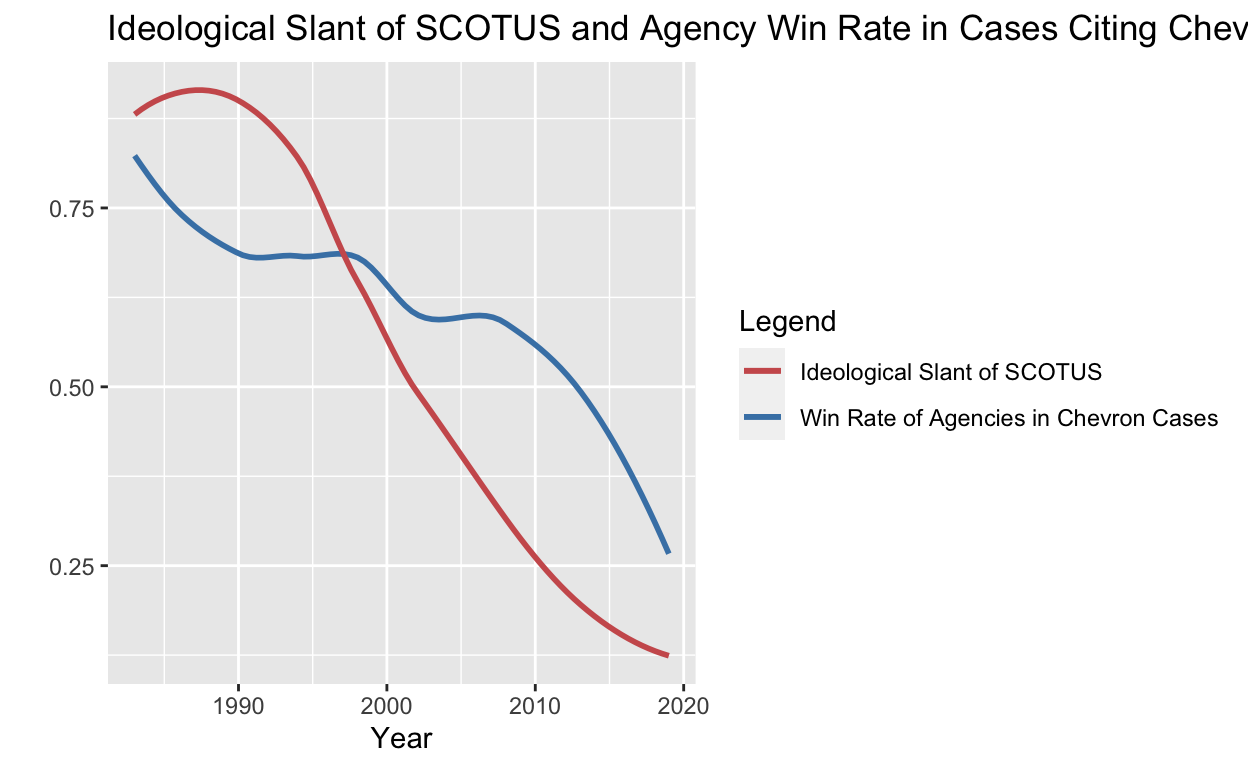
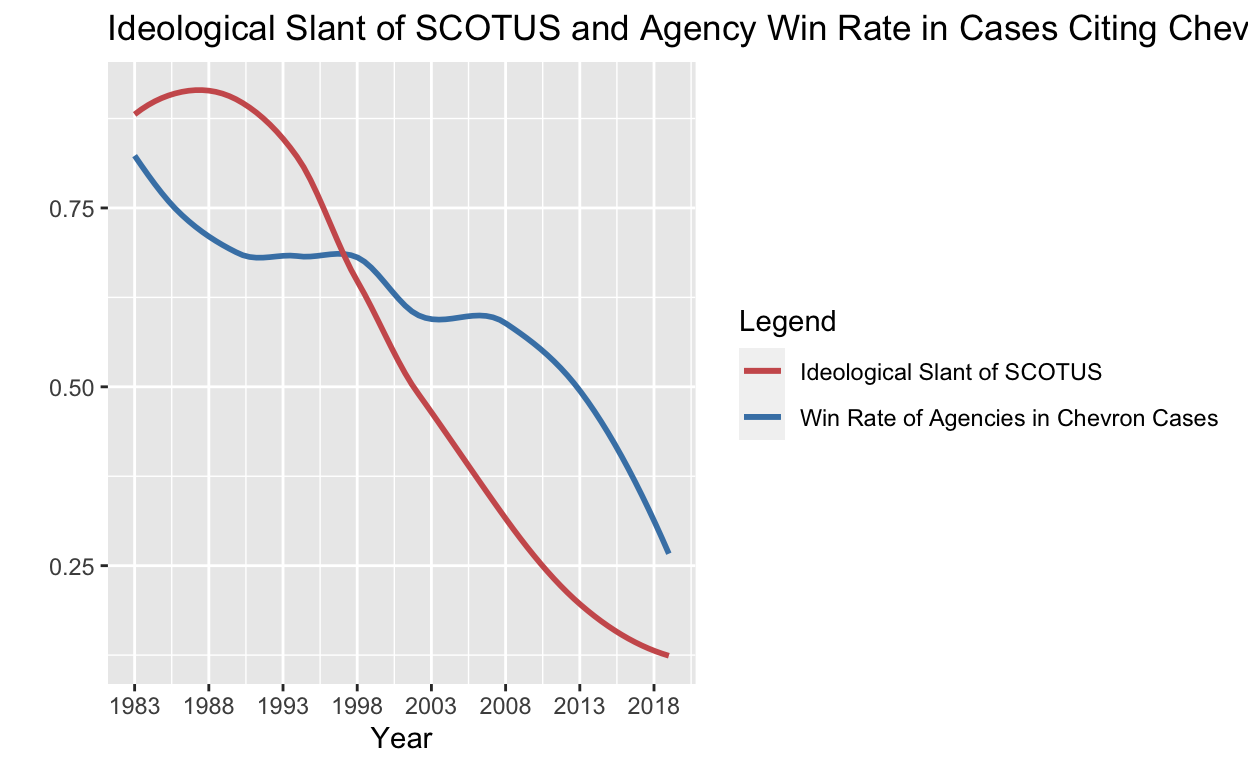
done with milestone

diff --git a/index.html b/index.html
@@ -115,7 +115,7 @@ code span.wa { color: #5e5e5e; font-style: italic; } /* Warning */
   <!--/radix_placeholder_rmarkdown_metadata-->
   
   <script type="text/json" id="radix-resource-manifest">
-  {"type":"character","attributes":{},"value":["data/court.csv","data/ProjectDeferenceData.csv","index_files/anchor-4.2.2/anchor.min.js","index_files/bowser-1.9.3/bowser.min.js","index_files/distill-2.2.21/template.v2.js","index_files/figure-html5/unnamed-chunk-5-1.png","index_files/figure-html5/unnamed-chunk-6-1.png","index_files/header-attrs-2.17/header-attrs.js","index_files/header-attrs-2.24/header-attrs.js","index_files/jquery-3.6.0/jquery-3.6.0.js","index_files/jquery-3.6.0/jquery-3.6.0.min.js","index_files/jquery-3.6.0/jquery-3.6.0.min.map","index_files/popper-2.6.0/popper.min.js","index_files/tippy-6.2.7/tippy-bundle.umd.min.js","index_files/tippy-6.2.7/tippy-light-border.css","index_files/tippy-6.2.7/tippy.css","index_files/tippy-6.2.7/tippy.umd.min.js","index_files/webcomponents-2.0.0/webcomponents.js"]}
+  {"type":"character","attributes":{},"value":["data/court.csv","data/ProjectDeferenceData.csv","index_files/anchor-4.2.2/anchor.min.js","index_files/bowser-1.9.3/bowser.min.js","index_files/distill-2.2.21/template.v2.js","index_files/figure-html5/unnamed-chunk-5-1.png","index_files/figure-html5/unnamed-chunk-6-1.png","index_files/figure-html5/unnamed-chunk-8-1.png","index_files/header-attrs-2.17/header-attrs.js","index_files/header-attrs-2.24/header-attrs.js","index_files/jquery-3.6.0/jquery-3.6.0.js","index_files/jquery-3.6.0/jquery-3.6.0.min.js","index_files/jquery-3.6.0/jquery-3.6.0.min.map","index_files/popper-2.6.0/popper.min.js","index_files/tippy-6.2.7/tippy-bundle.umd.min.js","index_files/tippy-6.2.7/tippy-light-border.css","index_files/tippy-6.2.7/tippy.css","index_files/tippy-6.2.7/tippy.umd.min.js","index_files/webcomponents-2.0.0/webcomponents.js"]}
   </script>
   <!--radix_placeholder_navigation_in_header-->
   <!--/radix_placeholder_navigation_in_header-->
@@ -1517,14 +1517,14 @@ code span.wa { color: #5e5e5e; font-style: italic; } /* Warning */
 </div>
 
 <div class="d-article">
-<h2 id="project-thoughts">Project thoughts</h2>
+<h2 id="milestone-1-project-thoughts">MILESTONE 1: Project thoughts</h2>
 <p>I am interested in doing my final project on an issue related to the federal court system. For example, I’d be interested in exploring how Chevron Deference has been declining as the justification in recent court decisions.</p>
-<h2 id="project-proposal">Project Proposal</h2>
+<h2 id="milestone-2-project-proposal">MILESTONE 2: Project Proposal</h2>
 <p>Does the Supreme Court defer more to certain executive agencies over others when questions of statutory interpretations arise? In this report, I will attempt to determine whether the Supreme Court favors certain executive agencies when applying the doctrine of Executive Deference. I hypothesize that the supreme court applies deference relatively equally among executive agencies, as the doctrine of deference does not discriminate between the roles of distinct agencies. Thus, when examining data about whether or not the Supreme Court sides with an executive agency in a decision, I expect each agency to have a similar win rate in cases revolving around deference. The explanatory variable of interest my project will focus on is the agency bringing a case invoking the deference doctrine before the Supreme Court. The outcome variable would be the win rates of those different agencies when those cases are brought before the court. Thus, the database I will be utilizing is a list of Supreme Court cases from 1984 to 2019 where an agency attempts to interpret a law (statutory interpretation). If the the difference in win rates between different agencies is not statistically significant, my hypothesis would have been found to have statistical support. If there are statistically significant differences in win rates of agencies, there would appear to be favoritism on the Supreme Court, and my hypothesis would be disproved.</p>
 <p>The variable for agency is coded 0-52, with each representing a different executive agency bringing the case to the Court. The variable called favors_agency can be considered in determining win rate. It is coded as a 0 if the decision favors agency, 1 if it does not, and 2 if it was mixed. To minimize confounding factors, I will only consider a 0 as a win for an agency.</p>
 <p>In addition, to avoid confounding variables regarding other aspects of cases, I will only investigate cases where the court determined Chevron Deference (one of the deference doctrines) should apply. Thus, the only cases I will evaluate are ones where Chevron Step 0 (does the Chevron framework apply) is coded as a 1 to indicate yes.</p>
 <p>Link to dataset: <a href="https://dataverse.harvard.edu/dataset.xhtml?persistentId=doi:10.7910/DVN/ZNCKL5" class="uri">https://dataverse.harvard.edu/dataset.xhtml?persistentId=doi:10.7910/DVN/ZNCKL5</a></p>
-<h2 id="data-visulatization">Data Visulatization</h2>
+<h2 id="milestone-3-data-visulatization">MILESTONE 3: Data Visulatization</h2>
 <p>I am going to make a scatter plot that shoes the win rate of different agencies in cases where Chevron is cited compared to the ideological slant of the court in order to determine which party has a stronger correlation with agency wins.</p>
 <div class="layout-chunk" data-layout="l-body">
 <div class="sourceCode">
@@ -1638,6 +1638,7 @@ Now let’s create the chart:
 <span>  <span class='fu'><a href='https://ggplot2.tidyverse.org/reference/geom_smooth.html'>geom_smooth</a></span><span class='op'>(</span><span class='fu'><a href='https://ggplot2.tidyverse.org/reference/aes.html'>aes</a></span><span class='op'>(</span>y <span class='op'>=</span> <span class='va'>prop_agency_win</span>, color <span class='op'>=</span> <span class='st'>"Win Rate of Agencies in Chevron Cases"</span><span class='op'>)</span>, se <span class='op'>=</span> <span class='cn'>FALSE</span><span class='op'>)</span> <span class='op'>+</span></span>
 <span>  <span class='fu'><a href='https://ggplot2.tidyverse.org/reference/geom_smooth.html'>geom_smooth</a></span><span class='op'>(</span><span class='fu'><a href='https://ggplot2.tidyverse.org/reference/aes.html'>aes</a></span><span class='op'>(</span>y <span class='op'>=</span> <span class='va'>`med`</span>, color <span class='op'>=</span> <span class='st'>"Ideological Slant of SCOTUS"</span><span class='op'>)</span>, se <span class='op'>=</span> <span class='cn'>FALSE</span><span class='op'>)</span> <span class='op'>+</span></span>
 <span>  <span class='fu'><a href='https://ggplot2.tidyverse.org/reference/scale_manual.html'>scale_colour_manual</a></span><span class='op'>(</span>name <span class='op'>=</span><span class='st'>"Legend"</span>, values <span class='op'>=</span> <span class='fu'><a href='https://rdrr.io/r/base/c.html'>c</a></span><span class='op'>(</span><span class='st'>"Win Rate of Agencies in Chevron Cases"</span> <span class='op'>=</span> <span class='st'>"steelblue"</span>, <span class='st'>"Ideological Slant of SCOTUS"</span> <span class='op'>=</span> <span class='st'>"indianred"</span><span class='op'>)</span><span class='op'>)</span> <span class='op'>+</span></span>
+<span>  <span class='fu'><a href='https://ggplot2.tidyverse.org/reference/scale_continuous.html'>scale_x_continuous</a></span><span class='op'>(</span>breaks<span class='op'>=</span><span class='fu'><a href='https://rdrr.io/r/base/seq.html'>seq</a></span><span class='op'>(</span><span class='fl'>1983</span>,<span class='fl'>2019</span>,by<span class='op'>=</span><span class='fl'>5</span><span class='op'>)</span><span class='op'>)</span> <span class='op'>+</span></span>
 <span><span class='fu'><a href='https://ggplot2.tidyverse.org/reference/labs.html'>labs</a></span><span class='op'>(</span></span>
 <span>  title <span class='op'>=</span> <span class='st'>"Ideological Slant of SCOTUS and Agency Win Rate in Cases Citing Chevron Over Time"</span>,</span>
 <span>  x <span class='op'>=</span> <span class='st'>"Year"</span>,</span>
@@ -1647,7 +1648,277 @@ Now let’s create the chart:
 <p><img src="index_files/figure-html5/unnamed-chunk-6-1.png" width="624" /></p>
 </div>
 <p>Higher numbers on the y-axis indicate a more conservative supreme court and a higher agency win-rate in Chevron cases.</p>
-<div class="sourceCode" id="cb4"><pre class="sourceCode r distill-force-highlighting-css"><code class="sourceCode r"></code></pre></div>
+<h2 id="milestone-4-analysis">MILESTONE 4: Analysis</h2>
+<p>Let’s create a table that demonstrates the relationship between the median slant of the Supreme Court and the percentage of Chevron cases an agency wins.</p>
+<div class="layout-chunk" data-layout="l-body">
+<div class="sourceCode">
+<pre class="sourceCode r"><code class="sourceCode r"><span><span class='va'>chevron_data</span> <span class='op'>&lt;-</span> <span class='va'>deference_data</span> <span class='op'>|&gt;</span></span>
+<span>  <span class='fu'><a href='https://dplyr.tidyverse.org/reference/group_by.html'>group_by</a></span><span class='op'>(</span><span class='va'>term</span><span class='op'>)</span> <span class='op'>|&gt;</span></span>
+<span>  <span class='fu'><a href='https://dplyr.tidyverse.org/reference/summarise.html'>summarize</a></span><span class='op'>(</span></span>
+<span>    median_slant <span class='op'>=</span> <span class='fu'><a href='https://rdrr.io/r/base/mean.html'>mean</a></span><span class='op'>(</span><span class='va'>med</span><span class='op'>)</span>,</span>
+<span>    agency_prop_win <span class='op'>=</span> <span class='fu'><a href='https://rdrr.io/r/base/mean.html'>mean</a></span><span class='op'>(</span><span class='va'>case_winner</span> <span class='op'>==</span> <span class='st'>"gov_agency"</span><span class='op'>)</span></span>
+<span>  <span class='op'>)</span></span>
+<span></span>
+<span><span class='va'>chevron_data</span> <span class='op'>&lt;-</span> <span class='va'>chevron_data</span> <span class='op'>|&gt;</span></span>
+<span>  <span class='fu'><a href='https://tidyr.tidyverse.org/reference/drop_na.html'>drop_na</a></span><span class='op'>(</span><span class='op'>)</span></span>
+<span></span>
+<span><span class='va'>chevron_data</span> <span class='op'>|&gt;</span></span>
+<span>  <span class='fu'>knitr</span><span class='fu'>::</span><span class='fu'><a href='https://rdrr.io/pkg/knitr/man/kable.html'>kable</a></span><span class='op'>(</span>col.names <span class='op'>=</span> <span class='fu'><a href='https://rdrr.io/r/base/c.html'>c</a></span><span class='op'>(</span><span class='st'>"Term"</span>, <span class='st'>"Ideological Slant of Median Justice"</span>, <span class='st'>"Proportion of Agency Wins in Chevron Cases"</span><span class='op'>)</span><span class='op'>)</span></span></code></pre>
+</div>
+<table>
+<colgroup>
+<col style="width: 5%" />
+<col style="width: 42%" />
+<col style="width: 51%" />
+</colgroup>
+<thead>
+<tr class="header">
+<th style="text-align: right;">Term</th>
+<th style="text-align: right;">Ideological Slant of Median Justice</th>
+<th style="text-align: right;">Proportion of Agency Wins in Chevron Cases</th>
+</tr>
+</thead>
+<tbody>
+<tr class="odd">
+<td style="text-align: right;">1983</td>
+<td style="text-align: right;">0.877</td>
+<td style="text-align: right;">0.7647059</td>
+</tr>
+<tr class="even">
+<td style="text-align: right;">1984</td>
+<td style="text-align: right;">0.828</td>
+<td style="text-align: right;">0.8181818</td>
+</tr>
+<tr class="odd">
+<td style="text-align: right;">1985</td>
+<td style="text-align: right;">0.932</td>
+<td style="text-align: right;">0.6607143</td>
+</tr>
+<tr class="even">
+<td style="text-align: right;">1986</td>
+<td style="text-align: right;">0.878</td>
+<td style="text-align: right;">0.7017544</td>
+</tr>
+<tr class="odd">
+<td style="text-align: right;">1987</td>
+<td style="text-align: right;">0.972</td>
+<td style="text-align: right;">0.5263158</td>
+</tr>
+<tr class="even">
+<td style="text-align: right;">1988</td>
+<td style="text-align: right;">1.098</td>
+<td style="text-align: right;">0.7142857</td>
+</tr>
+<tr class="odd">
+<td style="text-align: right;">1989</td>
+<td style="text-align: right;">0.876</td>
+<td style="text-align: right;">0.6382979</td>
+</tr>
+<tr class="even">
+<td style="text-align: right;">1990</td>
+<td style="text-align: right;">0.919</td>
+<td style="text-align: right;">0.7058824</td>
+</tr>
+<tr class="odd">
+<td style="text-align: right;">1991</td>
+<td style="text-align: right;">0.756</td>
+<td style="text-align: right;">0.7608696</td>
+</tr>
+<tr class="even">
+<td style="text-align: right;">1992</td>
+<td style="text-align: right;">0.838</td>
+<td style="text-align: right;">0.7868852</td>
+</tr>
+<tr class="odd">
+<td style="text-align: right;">1993</td>
+<td style="text-align: right;">0.817</td>
+<td style="text-align: right;">0.5365854</td>
+</tr>
+<tr class="even">
+<td style="text-align: right;">1994</td>
+<td style="text-align: right;">0.736</td>
+<td style="text-align: right;">0.6857143</td>
+</tr>
+<tr class="odd">
+<td style="text-align: right;">1995</td>
+<td style="text-align: right;">0.685</td>
+<td style="text-align: right;">0.6944444</td>
+</tr>
+<tr class="even">
+<td style="text-align: right;">1996</td>
+<td style="text-align: right;">0.782</td>
+<td style="text-align: right;">0.7560976</td>
+</tr>
+<tr class="odd">
+<td style="text-align: right;">1997</td>
+<td style="text-align: right;">0.798</td>
+<td style="text-align: right;">0.6326531</td>
+</tr>
+<tr class="even">
+<td style="text-align: right;">1998</td>
+<td style="text-align: right;">0.861</td>
+<td style="text-align: right;">0.6976744</td>
+</tr>
+<tr class="odd">
+<td style="text-align: right;">1999</td>
+<td style="text-align: right;">0.849</td>
+<td style="text-align: right;">0.6774194</td>
+</tr>
+<tr class="even">
+<td style="text-align: right;">2000</td>
+<td style="text-align: right;">0.589</td>
+<td style="text-align: right;">0.5277778</td>
+</tr>
+<tr class="odd">
+<td style="text-align: right;">2001</td>
+<td style="text-align: right;">0.371</td>
+<td style="text-align: right;">0.7142857</td>
+</tr>
+<tr class="even">
+<td style="text-align: right;">2002</td>
+<td style="text-align: right;">0.260</td>
+<td style="text-align: right;">0.7894737</td>
+</tr>
+<tr class="odd">
+<td style="text-align: right;">2003</td>
+<td style="text-align: right;">0.222</td>
+<td style="text-align: right;">0.7380952</td>
+</tr>
+<tr class="even">
+<td style="text-align: right;">2004</td>
+<td style="text-align: right;">0.110</td>
+<td style="text-align: right;">0.6571429</td>
+</tr>
+<tr class="odd">
+<td style="text-align: right;">2006</td>
+<td style="text-align: right;">0.458</td>
+<td style="text-align: right;">0.7179487</td>
+</tr>
+<tr class="even">
+<td style="text-align: right;">2007</td>
+<td style="text-align: right;">0.411</td>
+<td style="text-align: right;">0.5744681</td>
+</tr>
+<tr class="odd">
+<td style="text-align: right;">2008</td>
+<td style="text-align: right;">0.576</td>
+<td style="text-align: right;">0.6000000</td>
+</tr>
+<tr class="even">
+<td style="text-align: right;">2009</td>
+<td style="text-align: right;">0.516</td>
+<td style="text-align: right;">0.6086957</td>
+</tr>
+<tr class="odd">
+<td style="text-align: right;">2010</td>
+<td style="text-align: right;">0.577</td>
+<td style="text-align: right;">0.6585366</td>
+</tr>
+<tr class="even">
+<td style="text-align: right;">2011</td>
+<td style="text-align: right;">0.296</td>
+<td style="text-align: right;">0.4358974</td>
+</tr>
+<tr class="odd">
+<td style="text-align: right;">2012</td>
+<td style="text-align: right;">0.240</td>
+<td style="text-align: right;">0.4888889</td>
+</tr>
+<tr class="even">
+<td style="text-align: right;">2013</td>
+<td style="text-align: right;">0.068</td>
+<td style="text-align: right;">0.6444444</td>
+</tr>
+<tr class="odd">
+<td style="text-align: right;">2014</td>
+<td style="text-align: right;">-0.227</td>
+<td style="text-align: right;">0.6097561</td>
+</tr>
+<tr class="even">
+<td style="text-align: right;">2015</td>
+<td style="text-align: right;">-0.269</td>
+<td style="text-align: right;">0.5909091</td>
+</tr>
+<tr class="odd">
+<td style="text-align: right;">2016</td>
+<td style="text-align: right;">-0.059</td>
+<td style="text-align: right;">0.5588235</td>
+</tr>
+<tr class="even">
+<td style="text-align: right;">2017</td>
+<td style="text-align: right;">0.298</td>
+<td style="text-align: right;">0.5555556</td>
+</tr>
+<tr class="odd">
+<td style="text-align: right;">2018</td>
+<td style="text-align: right;">0.402</td>
+<td style="text-align: right;">0.6363636</td>
+</tr>
+<tr class="even">
+<td style="text-align: right;">2019</td>
+<td style="text-align: right;">0.355</td>
+<td style="text-align: right;">0.5500000</td>
+</tr>
+</tbody>
+</table>
+</div>
+<p>let’s put this on a more easy to read graph:</p>
+<div class="layout-chunk" data-layout="l-body">
+<div class="sourceCode">
+<pre class="sourceCode r"><code class="sourceCode r"><span><span class='va'>ideology_graph</span> <span class='op'>&lt;-</span> <span class='va'>chevron_data</span> <span class='op'>|&gt;</span></span>
+<span>  <span class='fu'><a href='https://ggplot2.tidyverse.org/reference/ggplot.html'>ggplot</a></span><span class='op'>(</span>mapping <span class='op'>=</span> <span class='fu'><a href='https://ggplot2.tidyverse.org/reference/aes.html'>aes</a></span><span class='op'>(</span>x <span class='op'>=</span> <span class='va'>median_slant</span>, y <span class='op'>=</span> <span class='va'>agency_prop_win</span><span class='op'>)</span><span class='op'>)</span> <span class='op'>+</span></span>
+<span>  <span class='fu'><a href='https://ggplot2.tidyverse.org/reference/geom_point.html'>geom_point</a></span><span class='op'>(</span><span class='op'>)</span> <span class='op'>+</span></span>
+<span>  <span class='fu'><a href='https://ggplot2.tidyverse.org/reference/geom_smooth.html'>geom_smooth</a></span><span class='op'>(</span>method <span class='op'>=</span> <span class='st'>"lm"</span>, se <span class='op'>=</span> <span class='cn'>FALSE</span><span class='op'>)</span> <span class='op'>+</span></span>
+<span>  <span class='fu'><a href='https://ggplot2.tidyverse.org/reference/labs.html'>labs</a></span><span class='op'>(</span></span>
+<span>    x <span class='op'>=</span> <span class='st'>"Ideological Slant of Median Supreme Court Justice"</span>,</span>
+<span>    y <span class='op'>=</span> <span class='st'>"Proportion of Cases Citing Chevron an Agency Won "</span>,</span>
+<span>    title <span class='op'>=</span> <span class='st'>"Ideological Slant of Supreme Court vs. Agency Win Rate in Chevron Cases"</span>,</span>
+<span>    caption <span class='op'>=</span> <span class='st'>"Negative Values Show Liberal Lean, Positive Values Show Conservative Lean"</span></span>
+<span>  <span class='op'>)</span></span>
+<span></span>
+<span><span class='va'>ideology_graph</span></span></code></pre>
+</div>
+<p><img src="index_files/figure-html5/unnamed-chunk-8-1.png" width="624" /></p>
+</div>
+<p>let’s more clearly analyze the strength of the relationship between the ideological slant of the median justice on the Supreme Court and the prortion of cases citing Chevron that agencies win.</p>
+<div class="layout-chunk" data-layout="l-body">
+<div class="sourceCode">
+<pre class="sourceCode r"><code class="sourceCode r"><span><span class='va'>party_analysis</span> <span class='op'>&lt;-</span> <span class='fu'><a href='https://rdrr.io/r/stats/lm.html'>lm</a></span><span class='op'>(</span><span class='va'>agency_prop_win</span> <span class='op'>~</span> <span class='va'>median_slant</span>, data <span class='op'>=</span> <span class='va'>chevron_data</span><span class='op'>)</span></span>
+<span></span>
+<span><span class='va'>party_analysis</span></span></code></pre>
+</div>
+<pre><code>
+Call:
+lm(formula = agency_prop_win ~ median_slant, data = chevron_data)
+
+Coefficients:
+ (Intercept)  median_slant  
+     0.60022       0.09178  </code></pre>
+</div>
+<div class="layout-chunk" data-layout="l-body">
+<div class="sourceCode">
+<pre class="sourceCode r"><code class="sourceCode r"><span><span class='kw'><a href='https://rdrr.io/r/base/library.html'>library</a></span><span class='op'>(</span><span class='va'><a href='https://broom.tidymodels.org/'>broom</a></span><span class='op'>)</span></span>
+<span></span>
+<span><span class='fu'><a href='https://generics.r-lib.org/reference/glance.html'>glance</a></span><span class='op'>(</span><span class='va'>party_analysis</span><span class='op'>)</span> <span class='op'>|&gt;</span></span>
+<span>  <span class='fu'><a href='https://dplyr.tidyverse.org/reference/select.html'>select</a></span><span class='op'>(</span><span class='va'>r.squared</span><span class='op'>)</span> <span class='op'>|&gt;</span></span>
+<span>  <span class='fu'>knitr</span><span class='fu'>::</span><span class='fu'><a href='https://rdrr.io/pkg/knitr/man/kable.html'>kable</a></span><span class='op'>(</span>col.names <span class='op'>=</span> <span class='st'>"R Squared"</span><span class='op'>)</span></span></code></pre>
+</div>
+<table>
+<thead>
+<tr class="header">
+<th style="text-align: right;">R Squared</th>
+</tr>
+</thead>
+<tbody>
+<tr class="odd">
+<td style="text-align: right;">0.1238123</td>
+</tr>
+</tbody>
+</table>
+</div>
+<p>The r squared value of the linear relationship described above is 0.1238123. This suggest there is a weak linear relationship between the ideological slant of the median supreme court justice and the proportion of Chevron Cases the agency wins.</p>
+<p>Becuase the slope is positive, it suggests the relationship is positive, meaning that a more conservative median supreme court justice is associated with a higher agency win rate in Chevron cases.</p>
+<div class="sourceCode" id="cb5"><pre class="sourceCode r distill-force-highlighting-css"><code class="sourceCode r"></code></pre></div>
 <!--radix_placeholder_article_footer-->
 <!--/radix_placeholder_article_footer-->
 </div>
